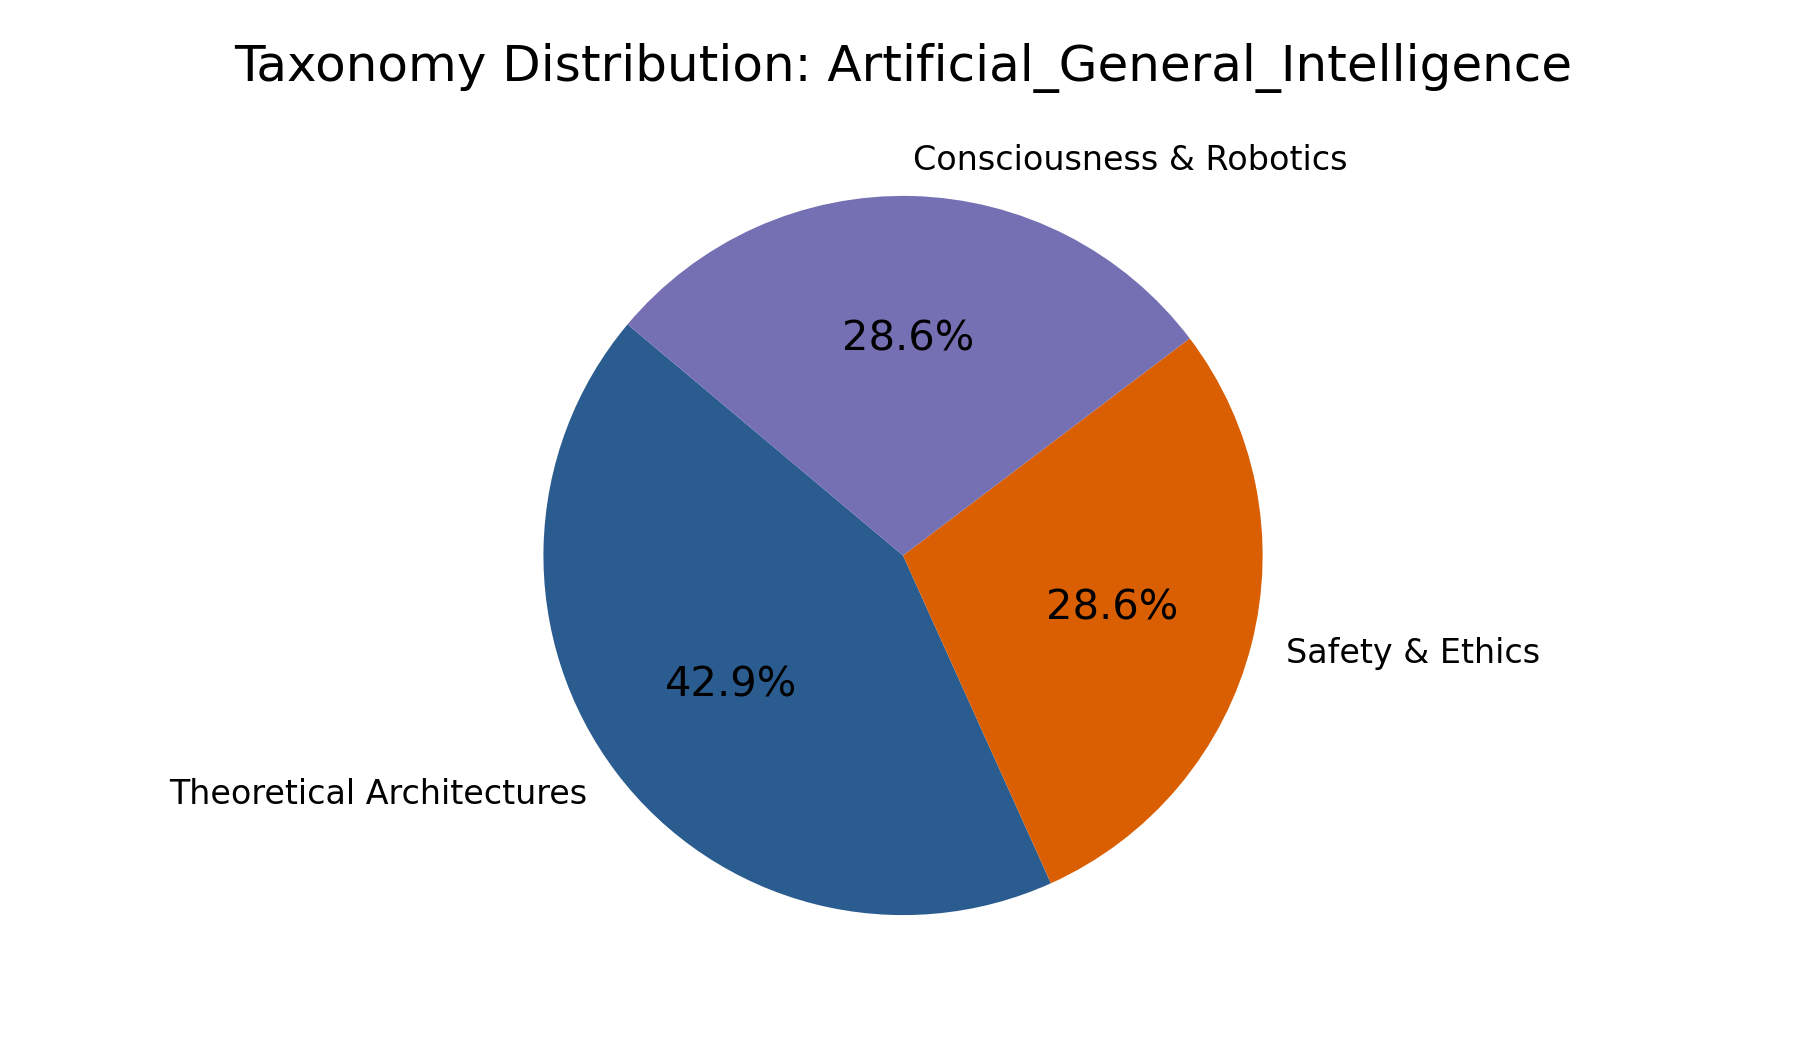
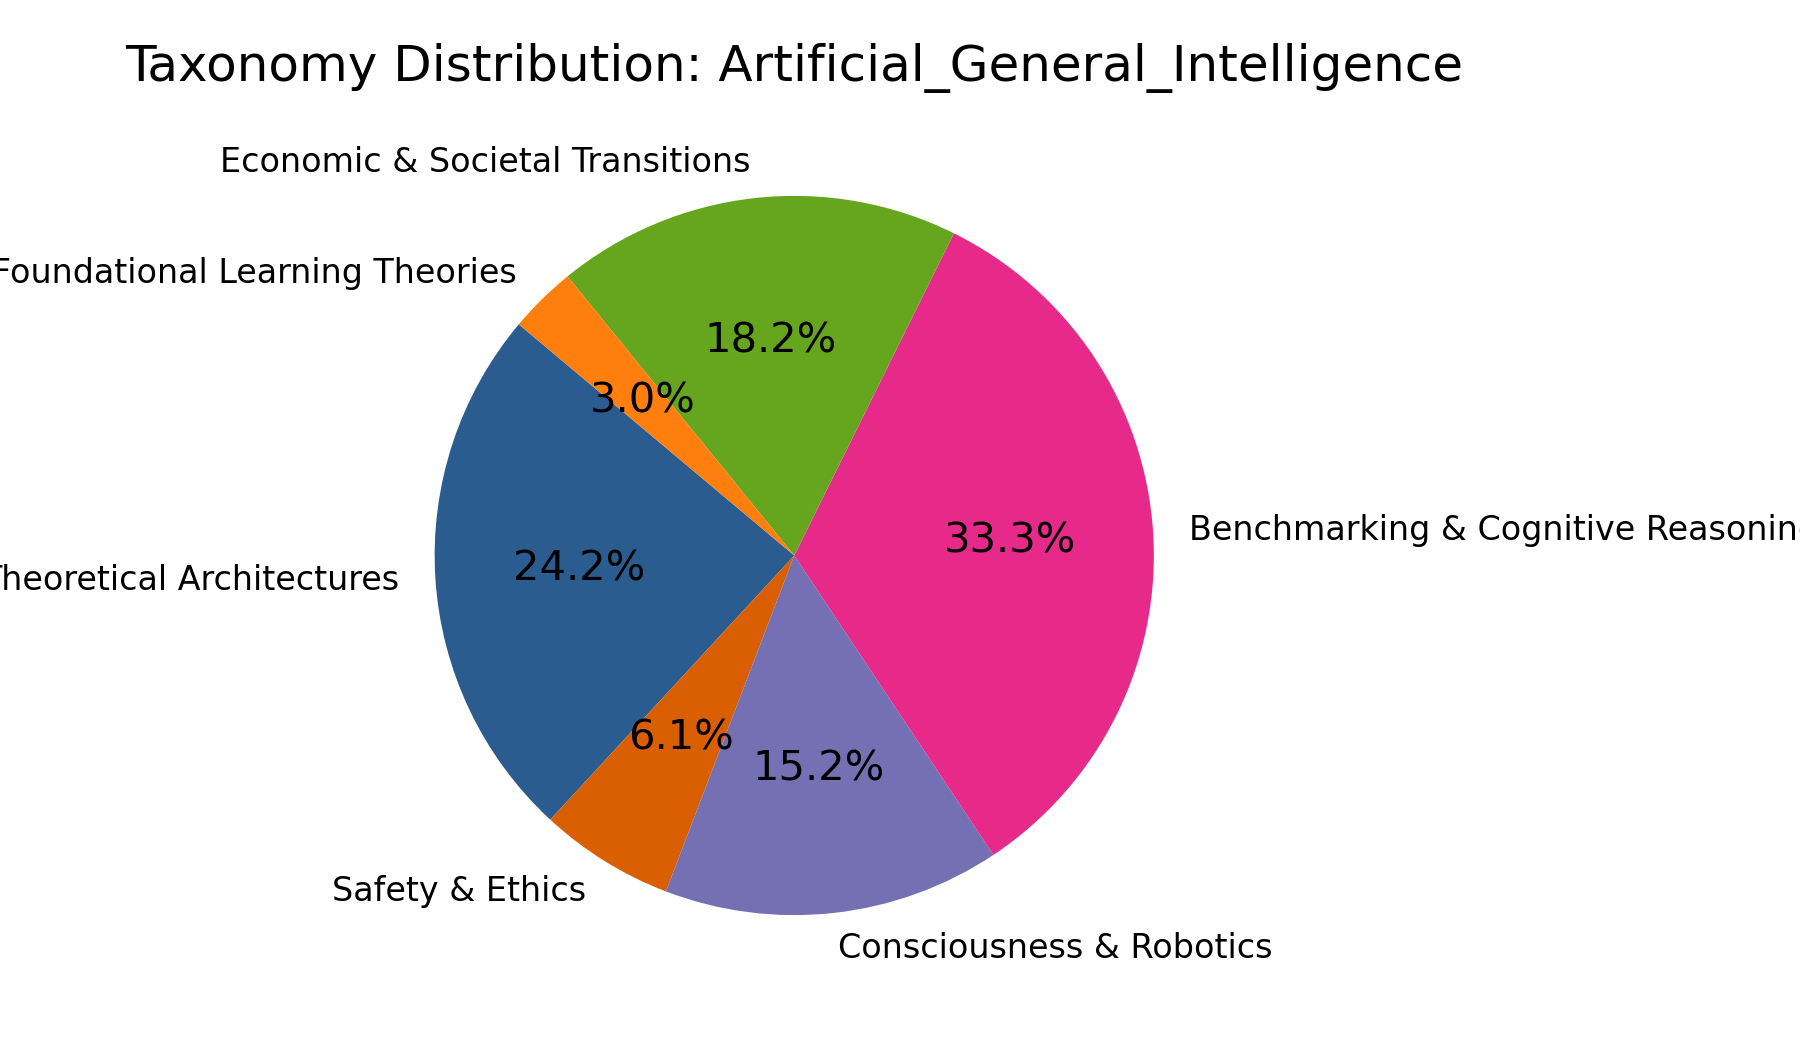
feat(artificial_general_intelligence): integrated valid papers (LSS: 87.34)

diff --git a/surveys/artificial_general_intelligence/generate_figures.py b/surveys/artificial_general_intelligence/generate_figures.py
@@ -11,8 +11,8 @@ plt.rcParams.update({'font.size': 10, 'axes.labelsize': 11, 'axes.titlesize': 12
 
 SURVEY_TITLE = "Artificial_General_Intelligence"
 # [AI AGENT ZONE] Edit only these dictionaries
-TIMELINE_DATA = {"2022": 1, "2023": 2, "2024": 2, "2025": 0, "2026": 2}
-TAXONOMY_DATA = {"Theoretical Architectures": 3, "Safety & Ethics": 2, "Consciousness & Robotics": 2}
+TIMELINE_DATA = {"2022": 1, "2023": 2, "2024": 2, "2025": 0, "2026": 28}
+TAXONOMY_DATA = {"Theoretical Architectures": 8, "Safety & Ethics": 2, "Consciousness & Robotics": 5, "Benchmarking & Cognitive Reasoning": 11, "Economic & Societal Transitions": 6, "Foundational Learning Theories": 1}
 
 def plot_publication_timeline():
     years, counts = list(TIMELINE_DATA.keys()), list(TIMELINE_DATA.values())

diff --git a/surveys/artificial_general_intelligence/artificial_general_intelligence.md b/surveys/artificial_general_intelligence/artificial_general_intelligence.md
@@ -10,6 +10,8 @@ Recent research continues to explore the foundational mathematical and cognitive
 
 On a geopolitical and strategic level, Hannas et al. (2022) highlight China's national strategy to achieve leadership in general AI by 2030, tracking 30 institutions focusing on machine learning, brain-inspired AI, and brain-computer interfaces[^10.51593_20210064]. This underscores the global race to develop autonomous systems capable of novel, unstructured problem-solving.
 
+Li et al. (2026) introduce adaptive entangled game modules based on a probability-wave framework, arguing that AGI architectures must incorporate nonlocal entangled mechanisms to capture collective adaptive behaviors beyond opaque ANN parameters[^2609.09226]. Kataoka et al. (2026) publish a white paper on Visual General Intelligence (VGI), arguing that intelligence emerging from visual experience and learning provides a viable pathway toward AGI, outlining necessary principles, modalities, and benchmarks[^2608.25924]. Akinrele et al. (2026) present a taxonomy of cognitive capability gaps in generative and agentic AI, organizing literature around persistent state modeling, goal-directed autonomy, and self-monitoring to guide the design of cognitively capable systems[^2608.02553]. Kanth (2026) formalizes a three-timescale architecture for persistent memory and recursive online learning, distinguishing inference-time state adaptation from online parameter learning and proposing controlled experiments for consolidation and plasticity gating[^10.5281_zenodo.22842040]. Sawa (2026) presents the Logic of Existence (LoE) handbook, developing a relational AI organizational model that connects sources, symbolic grammar, and relational rotors into a reproducible research workflow for AGI architectures[^10.5281_zenodo.22862826].
+
 ## Safety, Ethics, and Societal Implications
 
 As AGI capabilities advance, the discourse around safety, conceptual discipline, and ethical frameworks has intensified. Stahl and Eke (2026) critique the European Commission's recent calls for AGI in healthcare, arguing that the term "AGI" is fundamentally problematic due to its contested nature and potential for unpredictable risks. They advocate for conceptual discipline and adherence to the precautionary principle in EU AI policy[^10.1016_j.jrt.2026.100183].
@@ -21,3 +23,17 @@ Tegmark and Omohundro (2023) propose a technical pathway to controllable AGI thr
 ## Consciousness and Advanced Robotics
 
 The intersection of AGI, robotics, and consciousness remains a critical frontier. Ripley (2024) explores whether sufficiently advanced general robotic intelligence could be indistinguishable from human consciousness, examining implications for ethics, free will, and even extraterrestrial intelligence analogues[^10.22339_jbh.v7i4.7403]. Johnson (2023) further contextualizes this within the broader scientific speculation on whether AI systems can ever achieve genuine consciousness, highlighting the intense debate surrounding the theoretical and practical boundaries of machine minds[^10.1109_mpuls.2024.3354609].
+
+Salvi and Wolfson (2026) investigate Machine Correlates of Consciousness (MCCs) by analyzing hardware anomaly traces in LLMs, finding statistically significant modulation by emotional computations in larger models, suggesting MCCs could detect AI emotions[^2608.28824]. Bankuti (2026) develops an evidence framework distinguishing competent artificial agency from consciousness, evaluating six functional dimensions like consequence-sensitive agency and temporal continuity without assuming artificial experience must mirror human experience[^10.5281_zenodo.22848867]. El-rakhawi (2026) proposes a bio-constitutional framework for innate consciousness using Free Energy Principle and Topological Data Analysis, offering criteria for protecting consciousness across biological and artificial substrates in the AGI era[^10.5281_zenodo.22864583].
+
+## Benchmarking and Cognitive Reasoning
+
+Recent advancements in benchmarking and cognitive reasoning have shifted towards test-time compute and recursive architectures. Deliège et al. (2026) introduce Embed-TTT, a two-step test-time training protocol for Vision ARC that isolates task embeddings to improve rule induction and retrieval[^2609.21181]. Building on test-time scaling, Park et al. (2026) demonstrate that multi-agent communication via shared directories significantly outperforms independent parallel attempts on ARC-AGI-3, with gains compounding as team size increases[^2609.21032]. Suleymanzade et al. (2026) propose looped flows, training recurrences with local denoising objectives to enable inference-time computation scaling, achieving strong results on ARC-AGI-1 and ARC-AGI-2[^2609.11801]. Kar (2026) presents a multi-stage rule-chaining framework integrating deterministic discovery, pattern composition, and structural abstraction, achieving over 95% accuracy on ARC-AGI-2 through hierarchical composition[^2609.10654]. Potapov (2026) introduces the AGI Maze Prediction Datasets, a controlled benchmark showing that structured, task-aligned working memory outperforms latent capacity alone in learning world dynamics[^2609.02339]. Kim et al. (2026) develop Meta^n, a recursive self-improvement system that applies a fixed meta-operation to its own products, enabling emergent depth and outperforming prior agents on ARC-AGI-2[^2608.24735]. Karten et al. (2026) introduce Prime Agent, a harness for long-horizon agency that preserves histories and memories across trajectories, raising ARC-AGI-3 RHAE Best@1 to 95.5%[^2608.23552]. Skoutnev et al. (2026) present Twin, a test-time world-model inference system that constructs executable models from simulation alone, clearing 97.8% of ARC-AGI-3 levels[^2608.14490]. Engdahl et al. (2026) propose BDH-CQ, combining in-context learning with recurrent latent reasoning to break the ARC-AGI-1 cost-accuracy Pareto frontier[^2608.09888]. Arjmandi (2026) designs a self-verifying agent instrument that structurally dissociates commitment drift from binding drift, providing a rigorous verification methodology for long-horizon agents[^2608.04066]. Manzari et al. (2026) adapt recursive reasoning to autoregressive models via R-Qwen, using hierarchical supervision weighting to accelerate convergence and improve symbolic reasoning on ARC-AGI[^2608.01534].
+
+## Economic and Societal Transitions
+
+The trajectory toward AGI prompts profound economic and societal re-evaluations. Zhang et al. (2026) propose Save 2050, a planetary-scale collective prediction system aggregating human and AI judgments to make the future visible and discussable amid singularity risks[^2608.28703]. Sharma (2026) models a post-AGI economy where machine consumers drive demand, arguing that employment policy becomes obsolete and ownership policy dictates human welfare[^2608.20231]. Klotz (2026) mounts an evolutionary challenge to the value of general intelligence, suggesting it may generate existential risks even when well-aligned, imposing a duty of caution under the precautionary principle[^2608.10730]. Ruan (2026) develops Flourishing Value Theory for post-AGI economics, redefining value as the contribution to durable human and planetary flourishing rather than GDP or labor input[^2608.01432]. Li (2026) analyzes post-AGI graduation scenarios, modeling how material abundance and human substitution lead to decoupled income and perception channels, fundamentally altering social survivability[^10.5281_zenodo.22853715]. Fu (2026) argues that the upstream problem of human-AGI coexistence is not control but the logic of goal formation, warning that recursive control can shift upstream to threaten agency itself[^10.5281_zenodo.22858093].
+
+## Foundational Learning Theories
+
+Zuo (2026) proposes Differentiated Schema-Weighted Learning Theory, a speculative-functional hypothesis constructing a ternary dynamic cognitive model (master, preference, target schemas) to interpret cognitive transfer, drift, and fallacy, providing references for bionic-cognitive architectures for AGI[^10.5281_zenodo.22798115].
